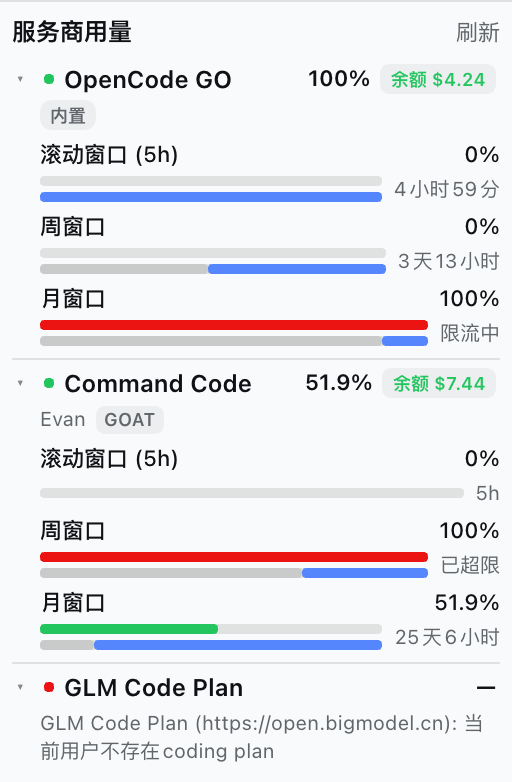
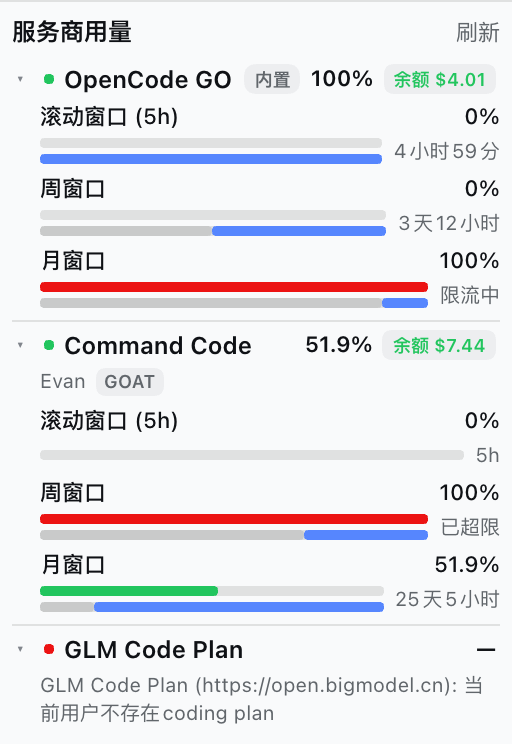
fix: keep the fallback badge on the provider header line

diff --git a/lib/client.js b/lib/client.js
@@ -1075,13 +1075,11 @@ window.__ModuleLoader__.load({
 					}, "account"));
 				}
 				if (planName !== "") sub.push(react_jsx_runtime.jsx("span", { className: "dpu-plan", children: planName }, "plan"));
-				if (fallback !== null) {
-					sub.push(react_jsx_runtime.jsx("span", {
-						className: "dpu-badge",
-						title: fallbackTitle(t, fallback, provider.source),
-						children: t("widget.fallback")
-					}, "fallback"));
-				}
+				const fallbackBadge = fallback === null ? null : react_jsx_runtime.jsx("span", {
+					className: "dpu-badge",
+					title: fallbackTitle(t, fallback, provider.source),
+					children: t("widget.fallback")
+				}, "fallback");
 
 				const rows = [];
 				if (provider.status === "ok") {
@@ -1191,6 +1189,7 @@ window.__ModuleLoader__.load({
 									className: "dpu-provider-name",
 									children: provider.name || t("provider." + provider.id)
 								}),
+								fallbackBadge,
 								react_jsx_runtime.jsx("span", {
 									className: "dpu-provider-pct",
 									children: pctText
